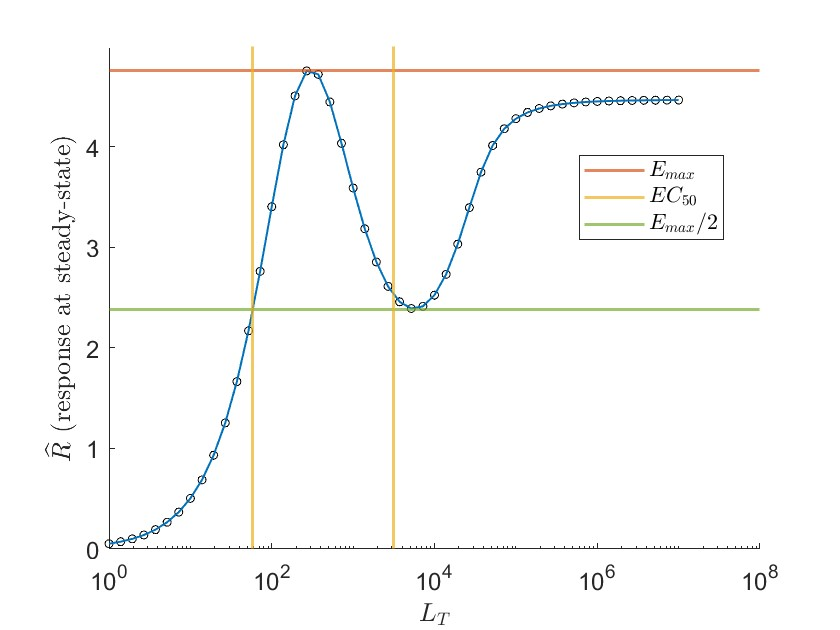
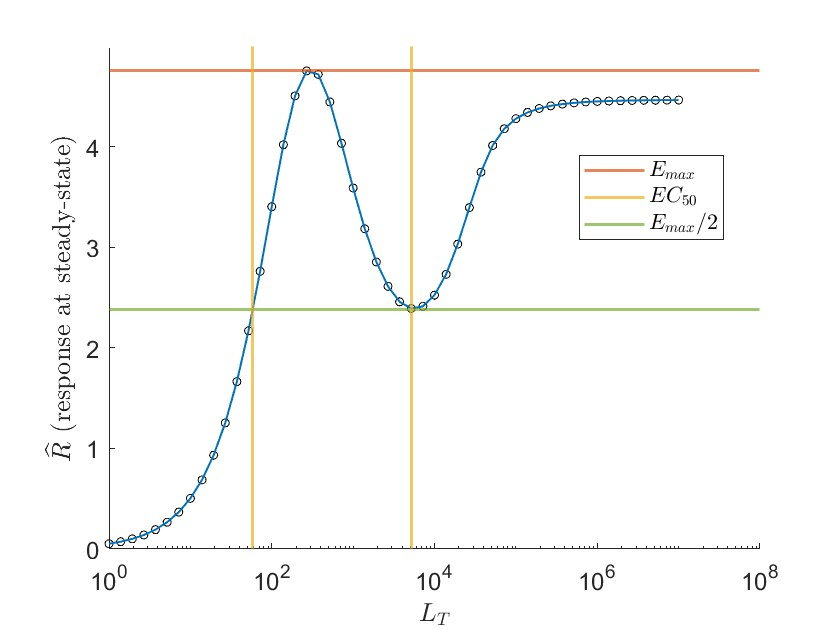
N

Changed region(s): [[0.4643, 0.0603, 0.4952, 0.8746]]

diff --git a/Sensitivity Analysis/Comprobaciones/KPR_NF1_Emax.m b/Sensitivity Analysis/Comprobaciones/KPR_NF1_Emax.m
@@ -2,9 +2,9 @@ clear
 clc
 
 TT = 3e4;
-ST = 10000;
+ST = 6e5;
 x0 = [TT, 5e4, 0, 0, 0, 0, 0, 0, ST]; 
-x0 = [TT, 5e4, 0, 0, 0, ST]; 
+%x0 = [TT, 5e4, 0, 0, 0, ST]; 
 
 % step size and time interval in days
 d = 1.0e-16; 
@@ -25,7 +25,7 @@ p = [kon koff kp gama b beta alpha ST];
 %p = [5e-5, 0.01, 1, 4.4e-4, 0.04, 1, 2e-4, 6e5];
 
 options = odeset('RelTol',1e-10,'AbsTol',1e-10, 'Refine', 1);
-Neg1 = @(t,y)ODEKPRNegFeed_N_2(t, y, p);
+Neg1 = @(t,y)ODEKPRNegFeed(t, y, p);
 [t,x] = ode45(Neg1, tspan, x0, options);
 
 % figure
@@ -61,89 +61,53 @@ for i = 1:NN
     x0(2) = x0_values(i);
     
     % Resolver la ODE
-    KPC = @(t,y)ODEKPRNegFeed_N_2(t, y, p);
+    KPC = @(t,y)ODEKPRNegFeed(t, y, p);
     [t, x] = ode45(KPC, tspan, x0, options);
     
     %   N = 5
-    % max_CN_values(i) = max(x(:,8));
-    % max_CN_SS(i) = x(end,8);
-    % P_SS(i) = x(end,9);
-    % 
-    % respuestaNF2(i) = max(x(:,8)) + max(x(:,7))*exp(-2) + max(x(:,6))*exp(-4);
+    max_CN_values(i) = max(x(:,8));
+    max_CN_SS(i) = x(end,8);
+    P_SS(i) = x(end,9);
+
+    respuestaNF2(i) = max(x(:,8)) + max(x(:,7))*exp(-2) + max(x(:,6))*exp(-4);
 
     %   N = 2
-    max_CN_values(i) = max(x(:,5));
-    max_CN_SS(i) = x(end,5);
-    P_SS(i) = x(end,6);
-
-    respuestaNF2(i) = max(x(:,5)) + max(x(:,4))*exp(-2) + max(x(:,3))*exp(-4);
+    % max_CN_values(i) = max(x(:,5));
+    % max_CN_SS(i) = x(end,5);
+    % P_SS(i) = x(end,6);
+    % 
+    % respuestaNF2(i) = max(x(:,5)) + max(x(:,4))*exp(-2) + max(x(:,3))*exp(-4);
 end
 
-% figure;
-% semilogx(x0_values, max_CN_values, '-o');
-% xlabel('Total ligands');
-% ylabel('Maximal response');
-% hold on
-% semilogx(x0_values, max_CN_SS, '-o');
+figure;
+semilogx(x0_values, max_CN_values, '-o');
+xlabel('Total ligands');
+ylabel('Maximal response');
+hold on
+semilogx(x0_values, max_CN_SS, '-o');
 % 
-% figure;
-% semilogx(x0_values, P_SS, '-o');
-% xlabel('Total ligands');
-% ylabel('Maximal response');
+figure;
+semilogx(x0_values, respuestaNF2, '-o');
+xlabel('Total ligands');
+ylabel('Maximal response');
 % 
 EmaxReal = max_CN_SS(end);
 
 %%      N = 5
-% [~, idx_max] = max(respuestaNF2);
-% maxVal = respuestaNF2(idx_max);
-% half_val = maxVal/2;
-% 
-% mitadInf = respuestaNF2(1:idx_max);
-% mitadSup = respuestaNF2(idx_max:end);
-% 
-% mitadInfLT = x0_values(1:idx_max);
-% mitadSupLT = x0_values(idx_max:end);
-% 
-% x_half1 = interp1(mitadInf, mitadInfLT, half_val, 'spline');
-% x_half2 = interp1(mitadSup, mitadSupLT, half_val, 'pchip');
+[~, idx_max] = max(respuestaNF2);
+maxVal = respuestaNF2(idx_max);
+half_val = maxVal/2;
 
-% figure;
-% semilogx(x0_values, respuestaNF2, 'o', ...
-%     'MarkerSize', 4, ...                % Tamaño de marcadores un poco mayor
-%     'MarkerEdgeColor', 'k');
-% hold on;
-% semilogx(x0_values, respuestaNF2, '-', ...
-%     'LineWidth', 1, ...
-%     'Color', [0 0.4470 0.7410]);        % Mismo color azul para la línea
-% xlabel('$L_T$', 'Interpreter', 'latex', 'FontSize', 14, 'FontName', 'Helvetica');
-% ylabel('$\widehat R$ (response at steady-state)', 'Interpreter', 'latex', 'FontSize', 12, 'FontName', 'Helvetica');
-% set(gca, 'FontSize', 12, 'FontName', 'Helvetica');
-% box off;
-% hLineH = yline(maxVal, ...
-%     'Color', [0.8500 0.3250 0.0980], ... % naranja rojizo
-%     'LineStyle', '-', ...
-%     'LineWidth', 1.5, ...
-%     'DisplayName', '$E_{max}$');
-% hLineH1 = yline(half_val, ...
-%     'Color', [0.4660 0.6740 0.1880], ... % verde
-%     'LineStyle', '-', ...
-%     'LineWidth', 1.5, ...
-%     'DisplayName', '$E_{max}$/2');
-% hLineV = xline(x_half1, ...
-%     'Color', [0.9290 0.6940 0.1250], ...  % naranja claro
-%     'LineStyle', '-', ...
-%     'LineWidth', 1.5, ...
-%     'DisplayName', '$EC_{50}$');
-% hLineV1 = xline(x_half2, ...
-%     'Color', [0.9290 0.6940 0.1250], ...  % naranja claro
-%     'LineStyle', '-', ...
-%     'LineWidth', 1.5, ...
-%     'DisplayName', '$EC_{50}$');
-% ylim([0 1.05 * maxVal]); 
-% legend([hLineH, hLineV, hLineH1], 'Interpreter', 'latex', 'Location', 'best');
-% hold off;
+mitadInf = respuestaNF2(1:idx_max);
+mitadSup = respuestaNF2(24:30);
 
-%% N = 2
+mitadInfLT = x0_values(1:idx_max);
+mitadSupLT = x0_values(24:30);
+
+x_half1 = interp1(mitadInf, mitadInfLT, half_val, 'spline');
+x_half2 = interp1(mitadSup, mitadSupLT, half_val, 'spline');
+x_half2 = x0_values(27);
+
 figure;
 semilogx(x0_values, respuestaNF2, 'o', ...
     'MarkerSize', 4, ...                % Tamaño de marcadores un poco mayor
@@ -156,9 +120,6 @@ xlabel('$L_T$', 'Interpreter', 'latex', 'FontSize', 14, 'FontName', 'Helvetica')
 ylabel('$\widehat R$ (response at steady-state)', 'Interpreter', 'latex', 'FontSize', 12, 'FontName', 'Helvetica');
 set(gca, 'FontSize', 12, 'FontName', 'Helvetica');
 box off;
-[~, idx_max] = max(respuestaNF2);
-maxVal = respuestaNF2(idx_max);
-half_val = maxVal/2;
 hLineH = yline(maxVal, ...
     'Color', [0.8500 0.3250 0.0980], ... % naranja rojizo
     'LineStyle', '-', ...
@@ -169,8 +130,12 @@ hLineH1 = yline(half_val, ...
     'LineStyle', '-', ...
     'LineWidth', 1.5, ...
     'DisplayName', '$E_{max}$/2');
-x_half = interp1(respuestaNF2, x0_values, half_val, 'spline');
-hLineV = xline(x_half, ...
+hLineV = xline(x_half1, ...
+    'Color', [0.9290 0.6940 0.1250], ...  % naranja claro
+    'LineStyle', '-', ...
+    'LineWidth', 1.5, ...
+    'DisplayName', '$EC_{50}$');
+hLineV1 = xline(x_half2, ...
     'Color', [0.9290 0.6940 0.1250], ...  % naranja claro
     'LineStyle', '-', ...
     'LineWidth', 1.5, ...
@@ -178,6 +143,42 @@ hLineV = xline(x_half, ...
 ylim([0 1.05 * maxVal]); 
 legend([hLineH, hLineV, hLineH1], 'Interpreter', 'latex', 'Location', 'best');
 hold off;
+
+%% N = 2
+% figure;
+% semilogx(x0_values, respuestaNF2, 'o', ...
+%     'MarkerSize', 4, ...                % Tamaño de marcadores un poco mayor
+%     'MarkerEdgeColor', 'k');
+% hold on;
+% semilogx(x0_values, respuestaNF2, '-', ...
+%     'LineWidth', 1, ...
+%     'Color', [0 0.4470 0.7410]);        % Mismo color azul para la línea
+% xlabel('$L_T$', 'Interpreter', 'latex', 'FontSize', 14, 'FontName', 'Helvetica');
+% ylabel('$\widehat R$ (response at steady-state)', 'Interpreter', 'latex', 'FontSize', 12, 'FontName', 'Helvetica');
+% set(gca, 'FontSize', 12, 'FontName', 'Helvetica');
+% box off;
+% [~, idx_max] = max(respuestaNF2);
+% maxVal = respuestaNF2(idx_max);
+% half_val = maxVal/2;
+% hLineH = yline(maxVal, ...
+%     'Color', [0.8500 0.3250 0.0980], ... % naranja rojizo
+%     'LineStyle', '-', ...
+%     'LineWidth', 1.5, ...
+%     'DisplayName', '$E_{max}$');
+% hLineH1 = yline(half_val, ...
+%     'Color', [0.4660 0.6740 0.1880], ... % verde
+%     'LineStyle', '-', ...
+%     'LineWidth', 1.5, ...
+%     'DisplayName', '$E_{max}$/2');
+% x_half = interp1(respuestaNF2, x0_values, half_val, 'spline');
+% hLineV = xline(x_half, ...
+%     'Color', [0.9290 0.6940 0.1250], ...  % naranja claro
+%     'LineStyle', '-', ...
+%     'LineWidth', 1.5, ...
+%     'DisplayName', '$EC_{50}$');
+% ylim([0 1.05 * maxVal]); 
+% legend([hLineH, hLineV, hLineH1], 'Interpreter', 'latex', 'Location', 'best');
+% hold off;
 
 %% Mis resultados
 

diff --git a/Sensitivity Analysis/Comprobaciones/McK_Emax.m b/Sensitivity Analysis/Comprobaciones/McK_Emax.m
@@ -63,7 +63,7 @@ hold on;
 semilogx(x0_values, RespuestaSS, '-', ...
     'LineWidth', 1, ...
     'Color', [0 0.4470 0.7410]);        % Mismo color azul para la línea
-xlabel('$X_T$', 'Interpreter', 'latex', 'FontSize', 14, 'FontName', 'Helvetica');
+xlabel('$L_T$', 'Interpreter', 'latex', 'FontSize', 14, 'FontName', 'Helvetica');
 ylabel('$\widehat R$ (response at steady-state)', 'Interpreter', 'latex', 'FontSize', 12, 'FontName', 'Helvetica');
 set(gca, 'FontSize', 12, 'FontName', 'Helvetica');
 box off;
